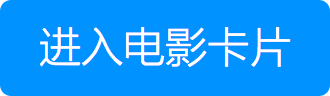
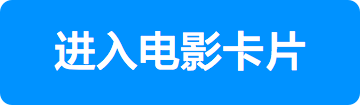
adjust detail about share text and into app font size

diff --git a/movienext/ViewControllers/Movie/MovieSearchViewController.m b/movienext/ViewControllers/Movie/MovieSearchViewController.m
@@ -34,7 +34,7 @@
 #import "MovieDetailViewController.h"
 #import "ShowSelectPhotoViewController.h"
 
-@interface MovieSearchViewController ()<UISearchBarDelegate,UITableViewDataSource,UITableViewDelegate,UIScrollViewDelegate>
+@interface MovieSearchViewController ()<UISearchBarDelegate,UITableViewDataSource,UITableViewDelegate,UIScrollViewDelegate, LoadingViewDelegate>
 {
     LoadingView   *loadView;
     //UITableView   *_myTableView;
@@ -66,8 +66,19 @@
     [self createNavigation];
     [self initData];
     [self initUI];
-
+    [self creatLoadView];
 }
+
+-(void)creatLoadView
+{
+    loadView =[[LoadingView alloc]initWithFrame:CGRectMake(0, 0, kDeviceWidth, kDeviceHeight)];
+    loadView.delegate=self;
+    [loadView stopAnimation];
+    loadView.hidden = YES;
+    [self.view addSubview:loadView];
+    
+}
+
 -(void)createNavigation
 {
     [self.navigationController.navigationBar setBackgroundImage:[UIImage imageNamed:@"tabbar_backgroud_color.png"] forBarMetrics:UIBarMetricsDefault];
@@ -99,11 +110,14 @@
 
 
 #pragma  mark   -------------------数据请求
+
+- (void)reloadDataClick {
+    [loadView hidenFailLoadAndShowAnimation];
+}
+
 //根据豆瓣id  请求movieid
 -(void)requestMovieIdWithdoubanId:(NSString *) douban_Id
 {
-    
-    
     AFHTTPRequestOperationManager *manager = [AFHTTPRequestOperationManager manager];
     NSDictionary *parameters = @{@"douban_id": douban_Id};
     
@@ -135,11 +149,22 @@
     
 }
 
+- (void)hideLoadingView{
+    [loadView stopAnimation];
+    loadView.hidden = YES;
+}
+
+- (void)showLoadingView{
+    [loadView startAnimation];
+    loadView.hidden = NO;
+}
+
 -(void)requestData
 {
     if ([search.text isEqualToString:@"00"]) {
         return;
     }
+    [self showLoadingView];
     
     NSMutableURLRequest *request = [[NSMutableURLRequest alloc] init];
     NSString *urlStr = [NSString stringWithFormat:@"http://movie.douban.com/subject_search?search_text=%@&cat=1002", [search.text URLEncodedString] ];
@@ -157,6 +182,7 @@
                 if ( responseString == nil ) {
                     NSLog(@"没有数据");
                     //添加一个无内容的笑脸
+                    [loadView showFailLoadData];
                 } else {
                     responseString = [Function getNoNewLine:responseString];
                 
@@ -166,11 +192,14 @@
                     if (_dataArray.count>0) {
                         // NSLog(@"------_dataArray -=====%@",_dataArray);
                         [_myTableView performSelectorOnMainThread:@selector(reloadData) withObject:nil waitUntilDone:NO];
+
                     } else {
                         //添加一个无内容的笑脸
+                        [loadView showNullView:@"没有数据"];
                     }
                 }
             } else {
+                
                 NSLog(@"error");
             }
         }

diff --git a/movienext/ViewControllers/Login/gridepage/GiderPageViewController.m b/movienext/ViewControllers/Login/gridepage/GiderPageViewController.m
@@ -34,6 +34,7 @@
     [[UIApplication sharedApplication] setNetworkActivityIndicatorVisible:NO];
     [[UIApplication sharedApplication] setStatusBarStyle:UIStatusBarStyleLightContent];
 }
+
 - (void)viewDidLoad {
     [super viewDidLoad];
     // Do any additional setup after loading the view.
@@ -42,8 +43,8 @@
 }
 -(void)createUI
 {
-    self.myScorllerView =[[UIScrollView alloc]initWithFrame:CGRectMake(0, 0,kDeviceWidth, kDeviceHeight-0)];
-    self.myScorllerView.contentSize=CGSizeMake(kDeviceWidth*3, kDeviceHeight-20);
+    self.myScorllerView =[[UIScrollView alloc]initWithFrame:CGRectMake(0, -20,kDeviceWidth, kDeviceHeight+20)];
+    self.myScorllerView.contentSize=CGSizeMake(kDeviceWidth*3, kDeviceHeight);
     self.myScorllerView.pagingEnabled=YES;
     self.myScorllerView.bounces=NO;
     self.myScorllerView.showsHorizontalScrollIndicator=NO;
@@ -72,7 +73,7 @@
         if (i==2) {
             imageview.userInteractionEnabled=YES;
             UIButton  *btn =[UIButton buttonWithType:UIButtonTypeCustom];
-            btn.frame=CGRectMake((kDeviceWidth-110)/2, kDeviceHeight-160, 110, 32);
+            btn.frame=CGRectMake((kDeviceWidth-140)/2, kDeviceHeight-150, 140, 42);
             
              [btn addTarget:self action:@selector(goLogin) forControlEvents:UIControlEventTouchUpInside];
             

diff --git a/movienext/ViewControllers/Finder/FinderViewController.m b/movienext/ViewControllers/Finder/FinderViewController.m
@@ -107,10 +107,11 @@
 //    
     sharebtn=[UIButton buttonWithType:UIButtonTypeCustom];
      //[sharebtn setBackgroundImage:[UIImage imageNamed:@"find_share.png"] forState:UIControlStateNormal];
-    [sharebtn setImage:[UIImage imageNamed:@"find_share"] forState:UIControlStateNormal];
-    sharebtn.frame=CGRectMake(0, 0, 25, 25);
+//    [sharebtn setImage:[UIImage imageNamed:@"find_share"] forState:UIControlStateNormal];
+    sharebtn.frame=CGRectMake(0, 0, 40, 25);
     sharebtn.tag=1001;
-    //[sharebtn setTitleColor:VBlue_color forState:UIControlStateNormal];
+    [sharebtn setTitle:@"分享" forState:UIControlStateNormal];
+    [sharebtn setTitleColor:VBlue_color forState:UIControlStateNormal];
     [sharebtn addTarget:self action:@selector(naviagetionItemClick:) forControlEvents:UIControlEventTouchUpInside];
     UIBarButtonItem  *rigthbarButton=[[UIBarButtonItem alloc]initWithCustomView:sharebtn];
     self.navigationItem.rightBarButtonItem=rigthbarButton;
